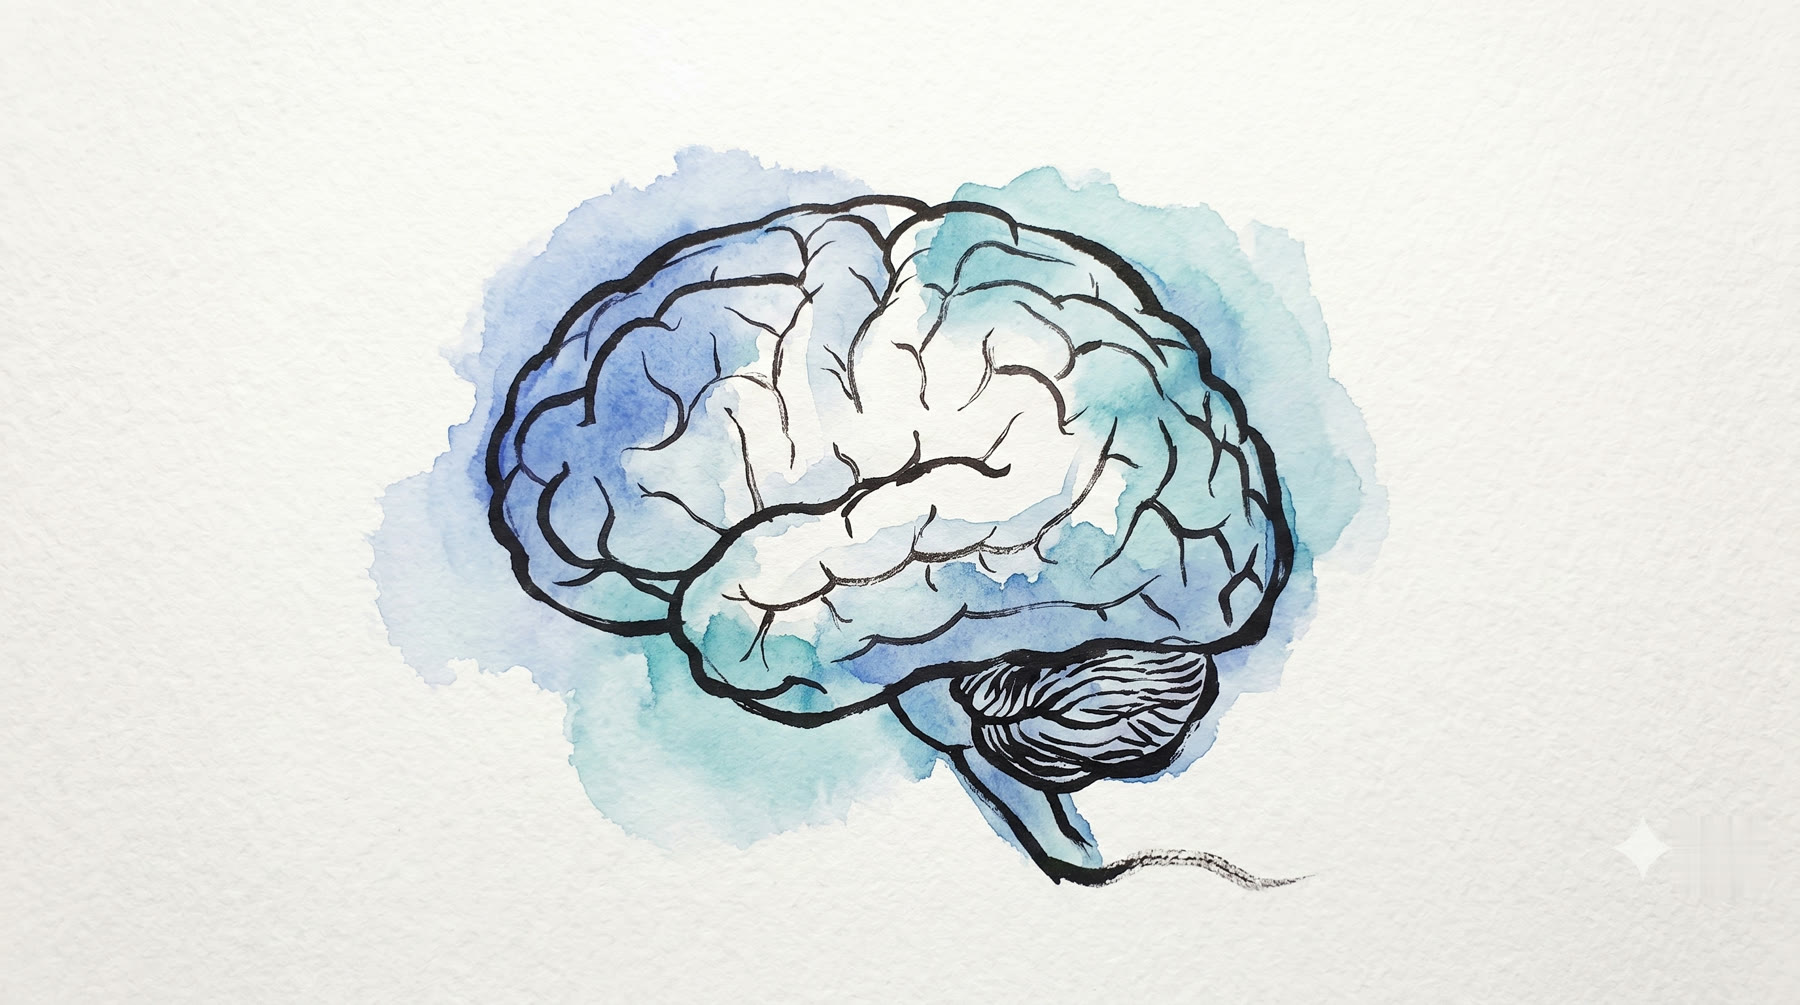
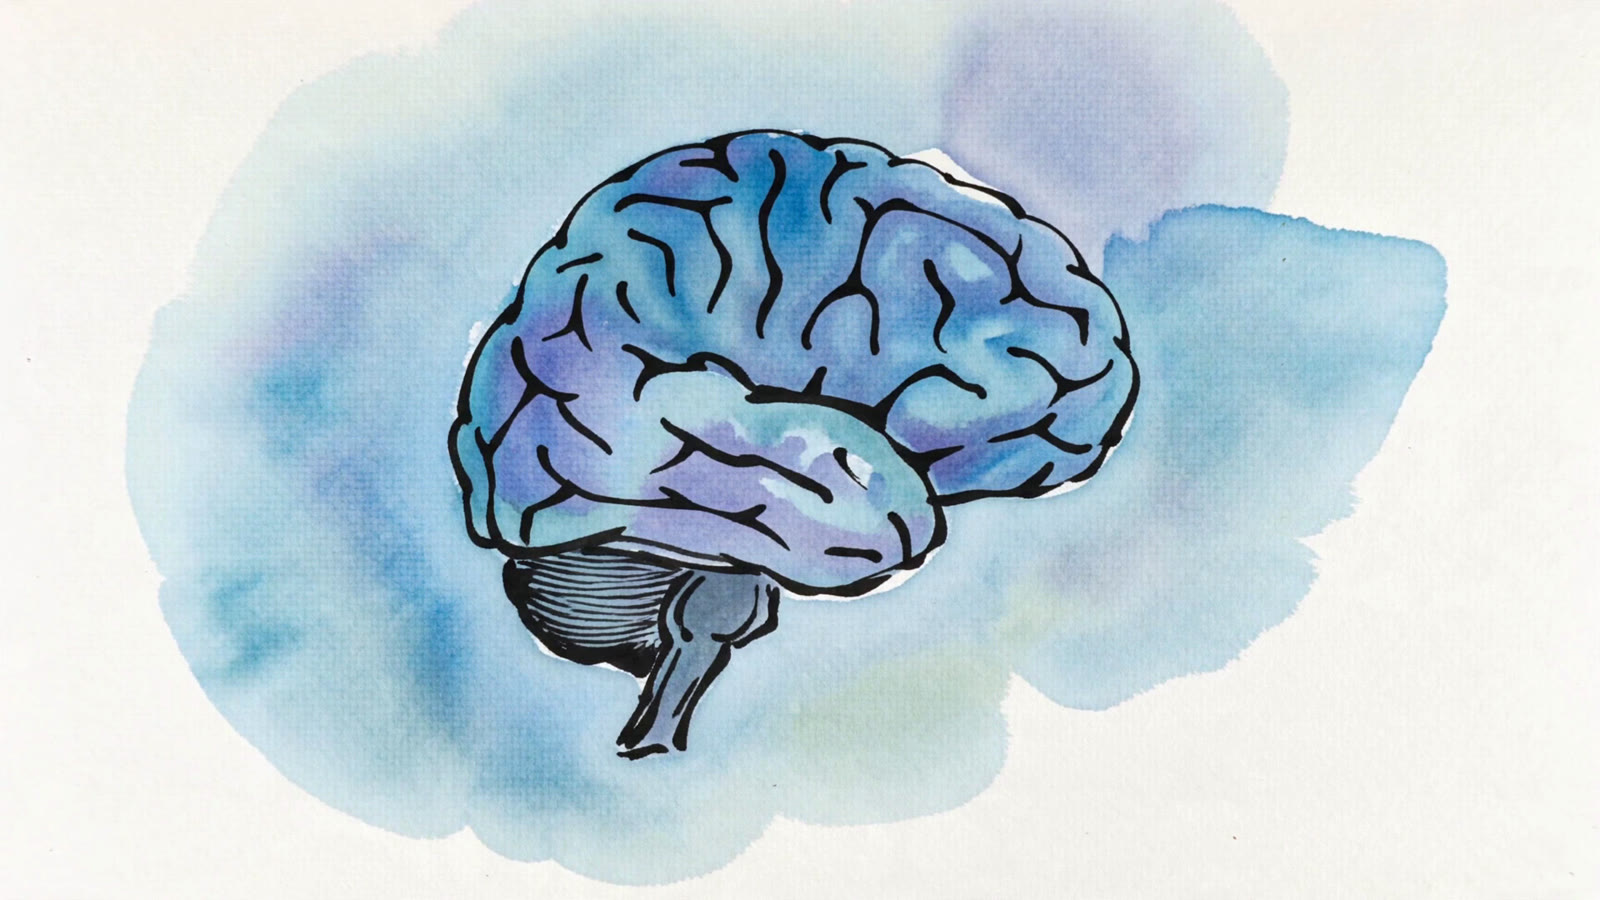
feat: single paint-in cover clip (ink outline -> blue washes bleed out), freezes on last frame
Replace the mismatched video+still crossfade with one Dreamina image-to-video
clip: brain draws in ink, then blue/teal watercolour blooms and bleeds outside
the outline, holding on its finished frame. No loop, no crossfade, no flip.

- wc-cover-paint.mp4: white-balanced (colorchannelmixer rr1.170 gg1.208 bb1.253)
  so the raw warm paper (D3CABE) lifts to the page tone (~F7F4EE); multiply then
  melts it into the page with no rectangle border. 1600x900, 30fps, muted.
- wc-cover.jpg: the clip's graded last frame -> reduced-motion / return-visit / error
  fallback, pixel-identical to where the video freezes (no more paper/flip mismatch).
- Drop paintDone state + .done fade-out + crossfade; gate the paint-in on
  paintSeenRef so a cover return shows the still instead of repainting.
- Mobile watermark styling now also applies to the clip.

diff --git a/index.html b/index.html
@@ -809,12 +809,10 @@
             mask-image: radial-gradient(97% 94% at 54% 50%, #000 80%, transparent 99%);
     -webkit-mask-repeat: no-repeat; mask-repeat: no-repeat;
     -webkit-mask-position: 54% 50%; mask-position: 54% 50%; }
-  /* the video paints in; the still (with the loose cloud bleed) crossfades in over it when the
-     clip ends. Both face the same way + share paper now, so it's just the clouds blooming. */
+  /* the clip paints itself in and freezes on its last frame; the still is that same frame,
+     revealed only on reduced-motion, clip error, or a return to the cover (no crossfade). */
   .ww-cover-still { opacity: 0; transition: opacity 1.3s ease; }
   .ww-cover-still.on { opacity: 1; }
-  .ww-cover-art video { transition: opacity 1.3s ease; }
-  .ww-cover-art video.done { opacity: 0; }
   @media (prefers-reduced-motion: reduce) { .ww-cover-still { opacity: 1; transition: none; } }
   /* readability veil: a SMOOTH paper-colour gradient (no texture image, so no seam or edge
      line), softly covering the text column and fading to clear before the brain. Sits above
@@ -864,7 +862,7 @@
   /* tablet + phone: the brain becomes a soft full-bleed watermark centred behind the copy,
      and the scrim veils the WHOLE width so the text is always crisp over it */
   @media (max-width: 820px) {
-    .ww-cover-still { right: 50%; transform: translate(50%, -50%);
+    .ww-cover-still, .ww-cover-still.on, .ww-cover-art video { right: 50%; transform: translate(50%, -50%);
       height: auto; width: 116vw; max-width: 116vw; opacity: .42; animation: none; mask: none; -webkit-mask: none; }
     /* a soft paper veil over the whole cover keeps the text crisp over the watermark brain */
     .ww-cover::before { background: rgba(244,239,230,.66); }
@@ -1132,7 +1130,7 @@ const BAND_ORDER = ["PYP","Middle","Senior"];
 const bandLabelOf = (k) => (BANDS[k] && BANDS[k].label) || k;
 
 // Bump on every deploy so a glance at the header confirms the cache is current.
-const APP_VERSION = "v0.8.5 · 2026-07-23";
+const APP_VERSION = "v0.8.6 · 2026-07-23";
 
 // Maps a class's year level to a teaching band (Prep-Y6 / Y7-9 / Y10-12). Drives
 // inputReady()'s validation, and (via BAND_KEY_OF below) which ROUTINES/BAND_GUIDANCE
@@ -2537,8 +2535,8 @@ const bxColor = (name) => BX_COLOR[name] || "#17171b";
 // transparency is needed). Everything scales/composes in code — no per-image calibration.
 const BX_ASSETS = {
   base: "assets/brain/",
-  cover: "wc-cover.jpg",            // approved blue ink-wash brain on warm white
-  coverPaint: "wc-cover-paint.mp4", // Seedance paint-in (mirrored + paper-matched, muted); freezes on its last frame
+  cover: "wc-cover.jpg",            // the paint-in clip's final frame — reduced-motion / return-visit fallback
+  coverPaint: "wc-cover-paint.mp4", // single Dreamina paint-in (ink outline -> blue washes bleed out), paper-matched, muted; holds on its last frame
   chamber: "wc-chamber.jpg",        // soft grey-cream wash, tinted per move behind the chamber panels
   music: "cover-music.m4a",         // dreamy soundtrack — fades in soft on first interaction (autoplay-with-sound is blocked)
   bloom: (name) => "bloom-" + name + ".jpg" // nine watercolour blooms, multiply-blended onto the paper
@@ -3396,9 +3394,8 @@ function App() {
 
   /* ---------- Brain World: watercolour scenes (paper + ink fades, no engine) ---------- */
   useEffect(() => { sceneRef.current = bxScene; }, [bxScene]);
-  const paintSeenRef = useRef(false); // the paint-in clip plays once per visit, not on every cover return
+  const paintSeenRef = useRef(false); // the paint-in clip plays once per visit; on return the still (its last frame) shows
   const [paintFailed, setPaintFailed] = useState(false); // cover video errored -> reveal the still fallback
-  const [paintDone, setPaintDone] = useState(false);     // paint clip ended -> crossfade to the still (full cloud bleed)
   // Dreamy background music: browsers block autoplay WITH sound, so we try on mount and, if
   // rejected, start it on the very first user interaction. Either way it FADES IN softly
   // (volume ramps 0 -> 0.28 over ~4s) so it never jars. Loops. Muted-friendly: never blares.
@@ -3716,17 +3713,16 @@ function App() {
       {(bxScene === "cover" || bxScene === "transport") && (
         <section className={"ww-cover" + (bxScene === "transport" ? " fading" : "")}>
           <div className="ww-cover-art" aria-hidden="true">
-            {/* The paint-in clip (now facing the SAME way as the still + paper-matched, so no
-                flip) plays over blank paper, then crossfades to the still whose looser blue wash
-                bleeds outside the outline — so the brain paints in AND the clouds bloom at the
-                end. Still hidden until the paint finishes; if the clip fails/reduced-motion, the
-                still just shows. */}
-            <img className={"ww-cover-still" + ((paintDone || prefersReducedMotion || paintFailed) ? " on" : "")}
+            {/* One watercolour clip: the brain draws itself in ink, then blue/teal washes bloom
+                and bleed outside the outline, and it holds on its finished frame (no loop, no
+                crossfade). The still IS that final frame — shown for reduced-motion, on clip
+                error, or when returning to the cover so it never repaints. */}
+            <img className={"ww-cover-still" + ((prefersReducedMotion || paintFailed || paintSeenRef.current) ? " on" : "")}
               src={BX_ASSETS.base + BX_ASSETS.cover} alt="" />
-            {!prefersReducedMotion && !paintFailed && (
-              <video className={paintDone ? "done" : ""}
+            {!prefersReducedMotion && !paintFailed && !paintSeenRef.current && (
+              <video
                 src={BX_ASSETS.base + BX_ASSETS.coverPaint} muted playsInline autoPlay preload="auto"
-                onEnded={() => { paintSeenRef.current = true; setPaintDone(true); }}
+                onEnded={() => { paintSeenRef.current = true; }}
                 onError={() => { setPaintFailed(true); }} />
             )}
           </div>